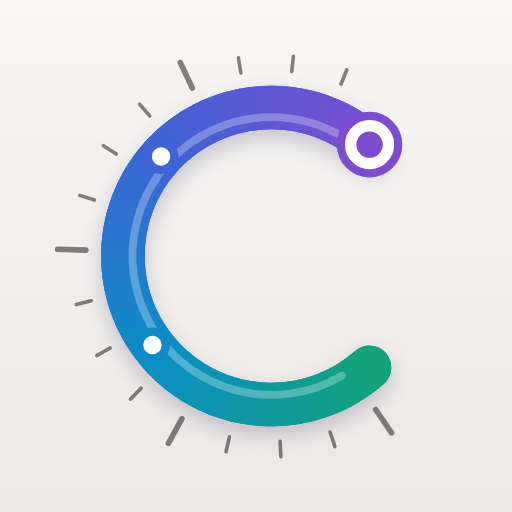
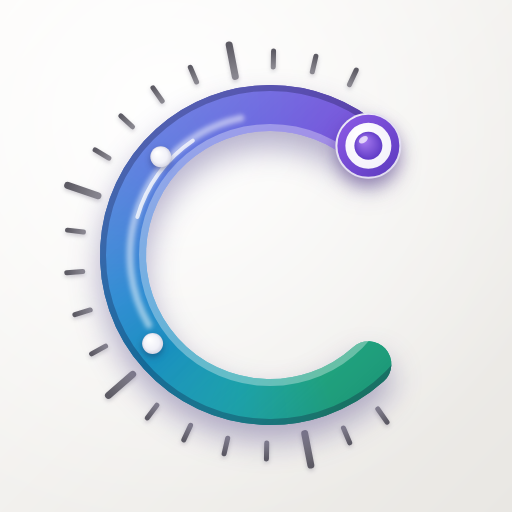
Add files via upload

Changed region(s): [[0.0938, 0.0625, 0.8125, 0.9375], [0.6875, 0.6562, 0.75, 0.6875], [0.2812, 0.7812, 0.3125, 0.8438]]

diff --git a/index.html b/index.html
@@ -30,7 +30,8 @@
   [data-handy-offen="1"] * { min-width: 0; overflow-wrap: anywhere; }
   a { color: var(--color-accent-700); text-decoration: none; }
   a:hover { color: var(--color-accent); text-decoration: underline; }
-  @keyframes tl-float { from { transform: translateY(0); } to { transform: translateY(-7px); } }
+  @keyframes tl-dreh { to { transform: rotate(360deg); } }
+@keyframes tl-float { from { transform: translateY(0); } to { transform: translateY(-7px); } }
 @keyframes tl-drift { 0% { transform: translate(0, 0) scale(1); } 50% { transform: translate(5%, -4%) scale(1.08); } 100% { transform: translate(-4%, 5%) scale(0.95); } }
 @media (prefers-reduced-motion: reduce) { [data-bewegt] { animation: none !important; } }
 @keyframes tl-glide { from { opacity: 0; transform: translateY(22px); } to { opacity: 1; transform: none; } }
@@ -449,13 +450,13 @@
     {{ loginFx }}
     <div data-bewegt="" style="{{ lay.loginPitch }}">
       <div style="font-size: 11px; letter-spacing: 0.2em; text-transform: uppercase; color: var(--color-accent-700);">{{ L.was_ihr_erlebt_habt_in_einer }}</div>
-      <h1 style="{{ lay.loginTitle }}">{{ L.chronik }}</h1>
-      <div style="height: 5px; background: var(--color-text); margin-top: var(--space-4);"></div>
+      <h1 aria-label="{{ L.chronik }}" style="{{ lay.loginTitle }}"><svg viewBox="96 80 310 352" aria-hidden="true" style="{{ lay.loginC }}"><defs><linearGradient id="wmC" x1="0" y1="0" x2="0" y2="1"><stop offset="0" stop-color="#7c4ad8"></stop><stop offset="0.42" stop-color="#3d63d9"></stop><stop offset="0.62" stop-color="#1f84cf"></stop><stop offset="0.82" stop-color="#10a0a8"></stop><stop offset="1" stop-color="#13a77c"></stop></linearGradient><linearGradient id="wmS" x1="0" y1="0" x2="1" y2="1"><stop offset="0" stop-color="#ffffff" stop-opacity="0.3"></stop><stop offset="0.5" stop-color="#ffffff" stop-opacity="0"></stop><stop offset="1" stop-color="#0a0a28" stop-opacity="0.22"></stop></linearGradient><radialGradient id="wmP" cx="0.35" cy="0.3" r="0.75"><stop offset="0" stop-color="#ffffff"></stop><stop offset="0.7" stop-color="#f1f1f8"></stop><stop offset="1" stop-color="#d4d4e2"></stop></radialGradient><radialGradient id="wmK" cx="0.35" cy="0.3" r="0.8"><stop offset="0" stop-color="#a77bf0"></stop><stop offset="1" stop-color="#5d38c4"></stop></radialGradient></defs><path d="M 368.4 145.8 A 147 147 0 1 0 368.4 364.2" fill="none" stroke="url(#wmC)" stroke-width="46" stroke-linecap="round"></path><path d="M 368.4 145.8 A 147 147 0 1 0 368.4 364.2" fill="none" stroke="url(#wmS)" stroke-width="46" stroke-linecap="round"></path><path d="M 148.8 325 A 140 140 0 0 1 240.9 118.1" fill="none" stroke="#ffffff" stroke-opacity="0.55" stroke-width="7" stroke-linecap="round"></path><circle cx="160.8" cy="156.6" r="10.5" fill="url(#wmP)"></circle><circle cx="152.6" cy="343.5" r="10.5" fill="url(#wmP)"></circle><circle cx="368.4" cy="145.8" r="33" fill="url(#wmP)"></circle><circle cx="368.4" cy="145.8" r="27" fill="none" stroke="#7446d6" stroke-width="8"></circle><circle cx="368.4" cy="145.8" r="14" fill="url(#wmK)"></circle></svg><span style="{{ lay.loginWort }}">{{ wortRest }}</span></h1>
+      <div style="height: 4px; border-radius: 4px; background: linear-gradient(90deg, #7c4ad8, #3d63d9 40%, #1f84cf 65%, #13a77c); margin-top: var(--space-5);"></div>
       <div style="display: flex; justify-content: space-between; gap: var(--space-4); padding: 7px 0; font-size: 11.5px; letter-spacing: 0.13em; text-transform: uppercase;">
         <span>{{ L.ereignisse_bilder_menschen }}</span>
         <span>{{ today }}</span>
       </div>
-      <div style="height: 1px; background: var(--color-text);"></div>
+      <div style="height: 1px; background: var(--color-divider);"></div>
 
       <sc-if value="{{ auth.configFault }}" hint-placeholder-val="{{ false }}">
         <div style="margin-top: var(--space-6); padding: 12px 15px; border-radius: var(--radius-md); background: var(--color-accent-2-100); color: var(--color-accent-2-700); font-size: 15px; max-width: 40ch;">{{ auth.configFault }}</div>
@@ -6468,12 +6469,12 @@ class Component extends DCLogic {
       background: "radial-gradient(circle at 40% 40%, " + farbe + " 0%, transparent 68%)", filter: "blur(30px)", opacity: 0.9,
       animation: "tl-drift " + dauer + "s " + verz + "s ease-in-out infinite alternate" } });
     this._loginFx = h("div", { key: "lfx", "aria-hidden": "true", style: { position: "absolute", inset: 0, overflow: "hidden", pointerEvents: "none", zIndex: 0 } },
-      blob("b1", "-12%", "-18%", "min(70vw, 760px)", "color-mix(in srgb, var(--color-accent) 30%, transparent)", 22, 0),
-      blob("b2", "52%", "38%", "min(62vw, 680px)", "color-mix(in srgb, var(--color-accent-2) 24%, transparent)", 26, -6),
-      blob("b3", "30%", "-24%", "min(44vw, 460px)", "color-mix(in srgb, #f2c500 26%, transparent)", 30, -12),
-      h("div", { key: "dots", style: { position: "absolute", right: 0, top: 0, width: "58%", height: "100%",
-        backgroundImage: "radial-gradient(color-mix(in srgb, var(--color-text) 16%, transparent) 1.1px, transparent 1.5px)", backgroundSize: "14px 14px",
-        WebkitMaskImage: "radial-gradient(ellipse at 85% 20%, #000 0%, transparent 65%)", maskImage: "radial-gradient(ellipse at 85% 20%, #000 0%, transparent 65%)" } }));
+      blob("b1", "-12%", "-18%", "min(70vw, 760px)", "rgba(124, 74, 216, 0.22)", 22, 0),
+      blob("b2", "52%", "38%", "min(62vw, 680px)", "rgba(19, 167, 124, 0.2)", 26, -6),
+      blob("b3", "30%", "-24%", "min(44vw, 460px)", "rgba(31, 132, 207, 0.22)", 30, -12),
+      h("svg", { key: "ring", viewBox: "-220 -220 440 440", "data-bewegt": "", style: { position: "absolute", right: "-14vmin", top: "-10vmin", width: "78vmin", height: "78vmin", opacity: 0.5, animation: "tl-dreh 160s linear infinite" } },
+        Array.from({ length: 30 }, (x, i) => { const a = i * 12 * Math.PI / 180, lang = i % 5 === 0, r0 = lang ? 170 : 180, r1 = lang ? 214 : 202;
+          return h("line", { key: i, x1: r0 * Math.cos(a), y1: r0 * Math.sin(a), x2: r1 * Math.cos(a), y2: r1 * Math.sin(a), stroke: "var(--color-neutral-500)", strokeWidth: lang ? 6 : 4, strokeLinecap: "round" }); })));
     return this._loginFx;
   }
   /* Tickende Countdown-Anzeige: ab unter einem Tag mit Sekunden, unter
@@ -15210,9 +15211,12 @@ class Component extends DCLogic {
         animation: "tl-rise 900ms 140ms cubic-bezier(0.16, 1, 0.3, 1) both" },
       loginTitle: {
         margin: "8px 0 0", fontSize: phone ? "54px" : tablet ? "72px" : "92px",
-        lineHeight: 0.88, letterSpacing: "-0.038em",
-        textShadow: "0.045em 0.03em 0 color-mix(in srgb, var(--color-accent) 55%, transparent), -0.03em -0.02em 0 color-mix(in srgb, var(--color-accent-2) 45%, transparent)"
+        lineHeight: 0.9, letterSpacing: "-0.045em", display: "flex", alignItems: "baseline", flexWrap: "nowrap",
+        fontFamily: "\"Space Grotesk\", system-ui, sans-serif", fontWeight: 700
       },
+      loginC: { height: "0.8em", width: "auto", flex: "0 0 auto", overflow: "visible", filter: "drop-shadow(0 0.06em 0.08em rgba(60, 40, 140, 0.28))", marginRight: "-0.01em" },
+      loginWort: { background: "linear-gradient(100deg, #5b55dc 0%, #1f84cf 48%, #13a77c 100%)", WebkitBackgroundClip: "text", backgroundClip: "text", color: "transparent",
+        filter: "drop-shadow(0 0.05em 0.07em rgba(60, 40, 140, 0.22))", paddingBottom: "0.06em" },
       loginClaim: {
         maxWidth: "26ch", fontSize: phone ? "26px" : tablet ? "32px" : "40px",
         lineHeight: 1.1, letterSpacing: "-0.02em", margin: "var(--space-6) 0 0", textWrap: "pretty"
@@ -15370,6 +15374,7 @@ class Component extends DCLogic {
         };
       })(this),
       loginFx: this.loginFxEl(),
+      wortRest: String(tx("chronik") || "Chronik").slice(1),
       gz: (function (self) {
         if (st.gastZurueck === undefined && !self._gzGelesen) { self._gzGelesen = true; try { const v = JSON.parse(sessionStorage.getItem("chronik-gast-zurueck") || "null"); if (v && v.hash) window.setTimeout(() => self.setState({ gastZurueck: v }), 0); } catch (x) { /* privat */ } }
         const v = st.gastZurueck;
@@ -16106,15 +16111,14 @@ class Component extends DCLogic {
           { y: "2026", up: true, w: 92, g: "", a: 0 }
         ].map((d, i) => {
           const left = 3 + i * 18;
-          const ac = d.a ? "var(--color-accent)" : "var(--color-neutral-500)";
+          const ac = ["#7c4ad8", "#3d63d9", "#1f84cf", "#10a0a8", "#13a77c"][i];
           return {
             key: "dm" + i,
             wrap: { position: "absolute", left: left + "%", top: "0", bottom: "0", width: "1px" },
             marker: {
               position: "absolute", left: "0", top: "106px", width: "11px", height: "11px",
-              marginLeft: "-5px", background: d.a ? ac : "var(--color-text)", boxShadow: d.a ? "0 0 0 5px color-mix(in srgb, " + ac + " 22%, transparent)" : "none",
-              transform: i % 2 ? "rotate(45deg)" : "none",
-              borderRadius: i % 2 ? "1px" : "50%"
+              marginLeft: "-5px", background: "radial-gradient(circle at 35% 30%, #ffffff, #e2e2ee)", boxShadow: "0 0 0 3px " + ac + ", 0 3px 8px rgba(40, 30, 90, 0.35)",
+              borderRadius: "50%"
             },
             card: {
               position: "absolute", left: "0", width: d.w + "px",
@@ -16133,7 +16137,7 @@ class Component extends DCLogic {
               : { display: "none" }
           };
         }),        spur: { position: "absolute", left: 0, right: 0, top: "112px", height: "3px", borderRadius: "2px", transformOrigin: "left center",
-          background: "linear-gradient(90deg, var(--color-text), var(--color-accent) 55%, var(--color-accent-2))", animation: "tl-draw 1200ms 200ms cubic-bezier(0.16, 1, 0.3, 1) both" },
+          background: "linear-gradient(90deg, #7c4ad8, #3d63d9 40%, #1f84cf 65%, #13a77c)", animation: "tl-draw 1200ms 200ms cubic-bezier(0.16, 1, 0.3, 1) both" },
         rules: pwRules(st.authForm.pw).map((r) => ({
           key: r.key, label: r.label, mark: r.ok ? "✓" : "·",
           style: { fontSize: "11.5px", letterSpacing: "0.02em", color: r.ok ? "var(--color-accent-700)" : "var(--color-neutral-600)" }
